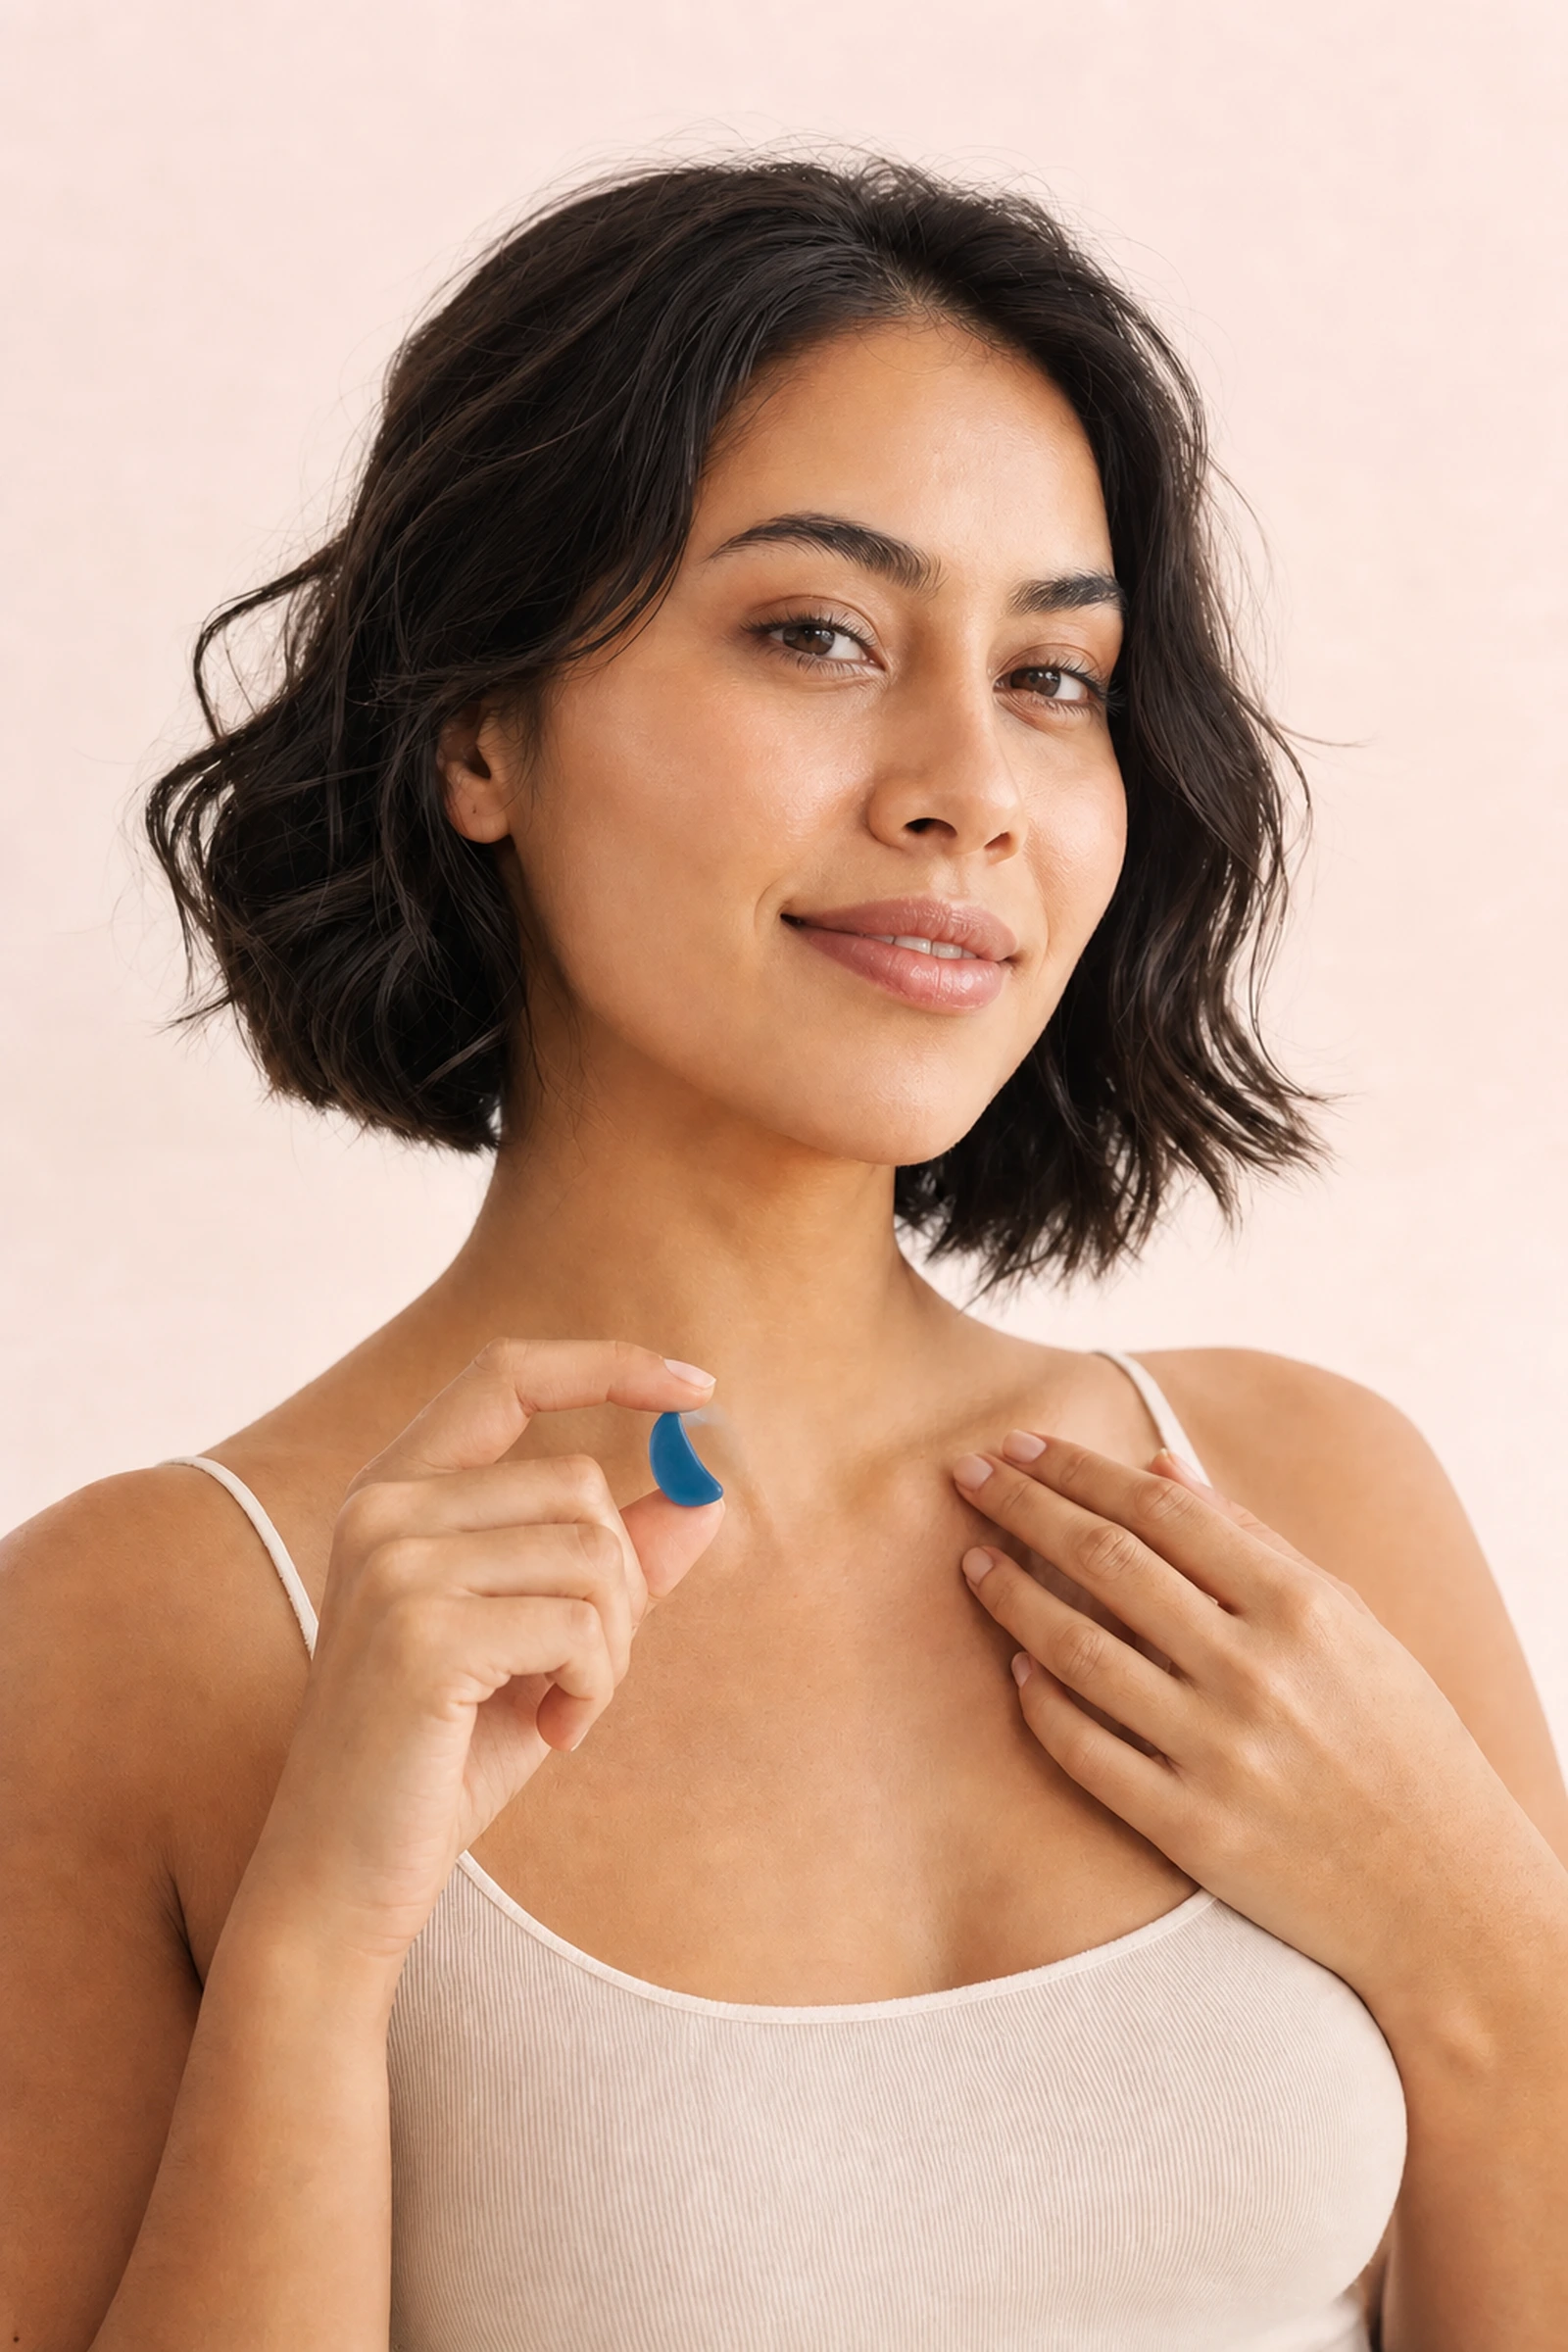
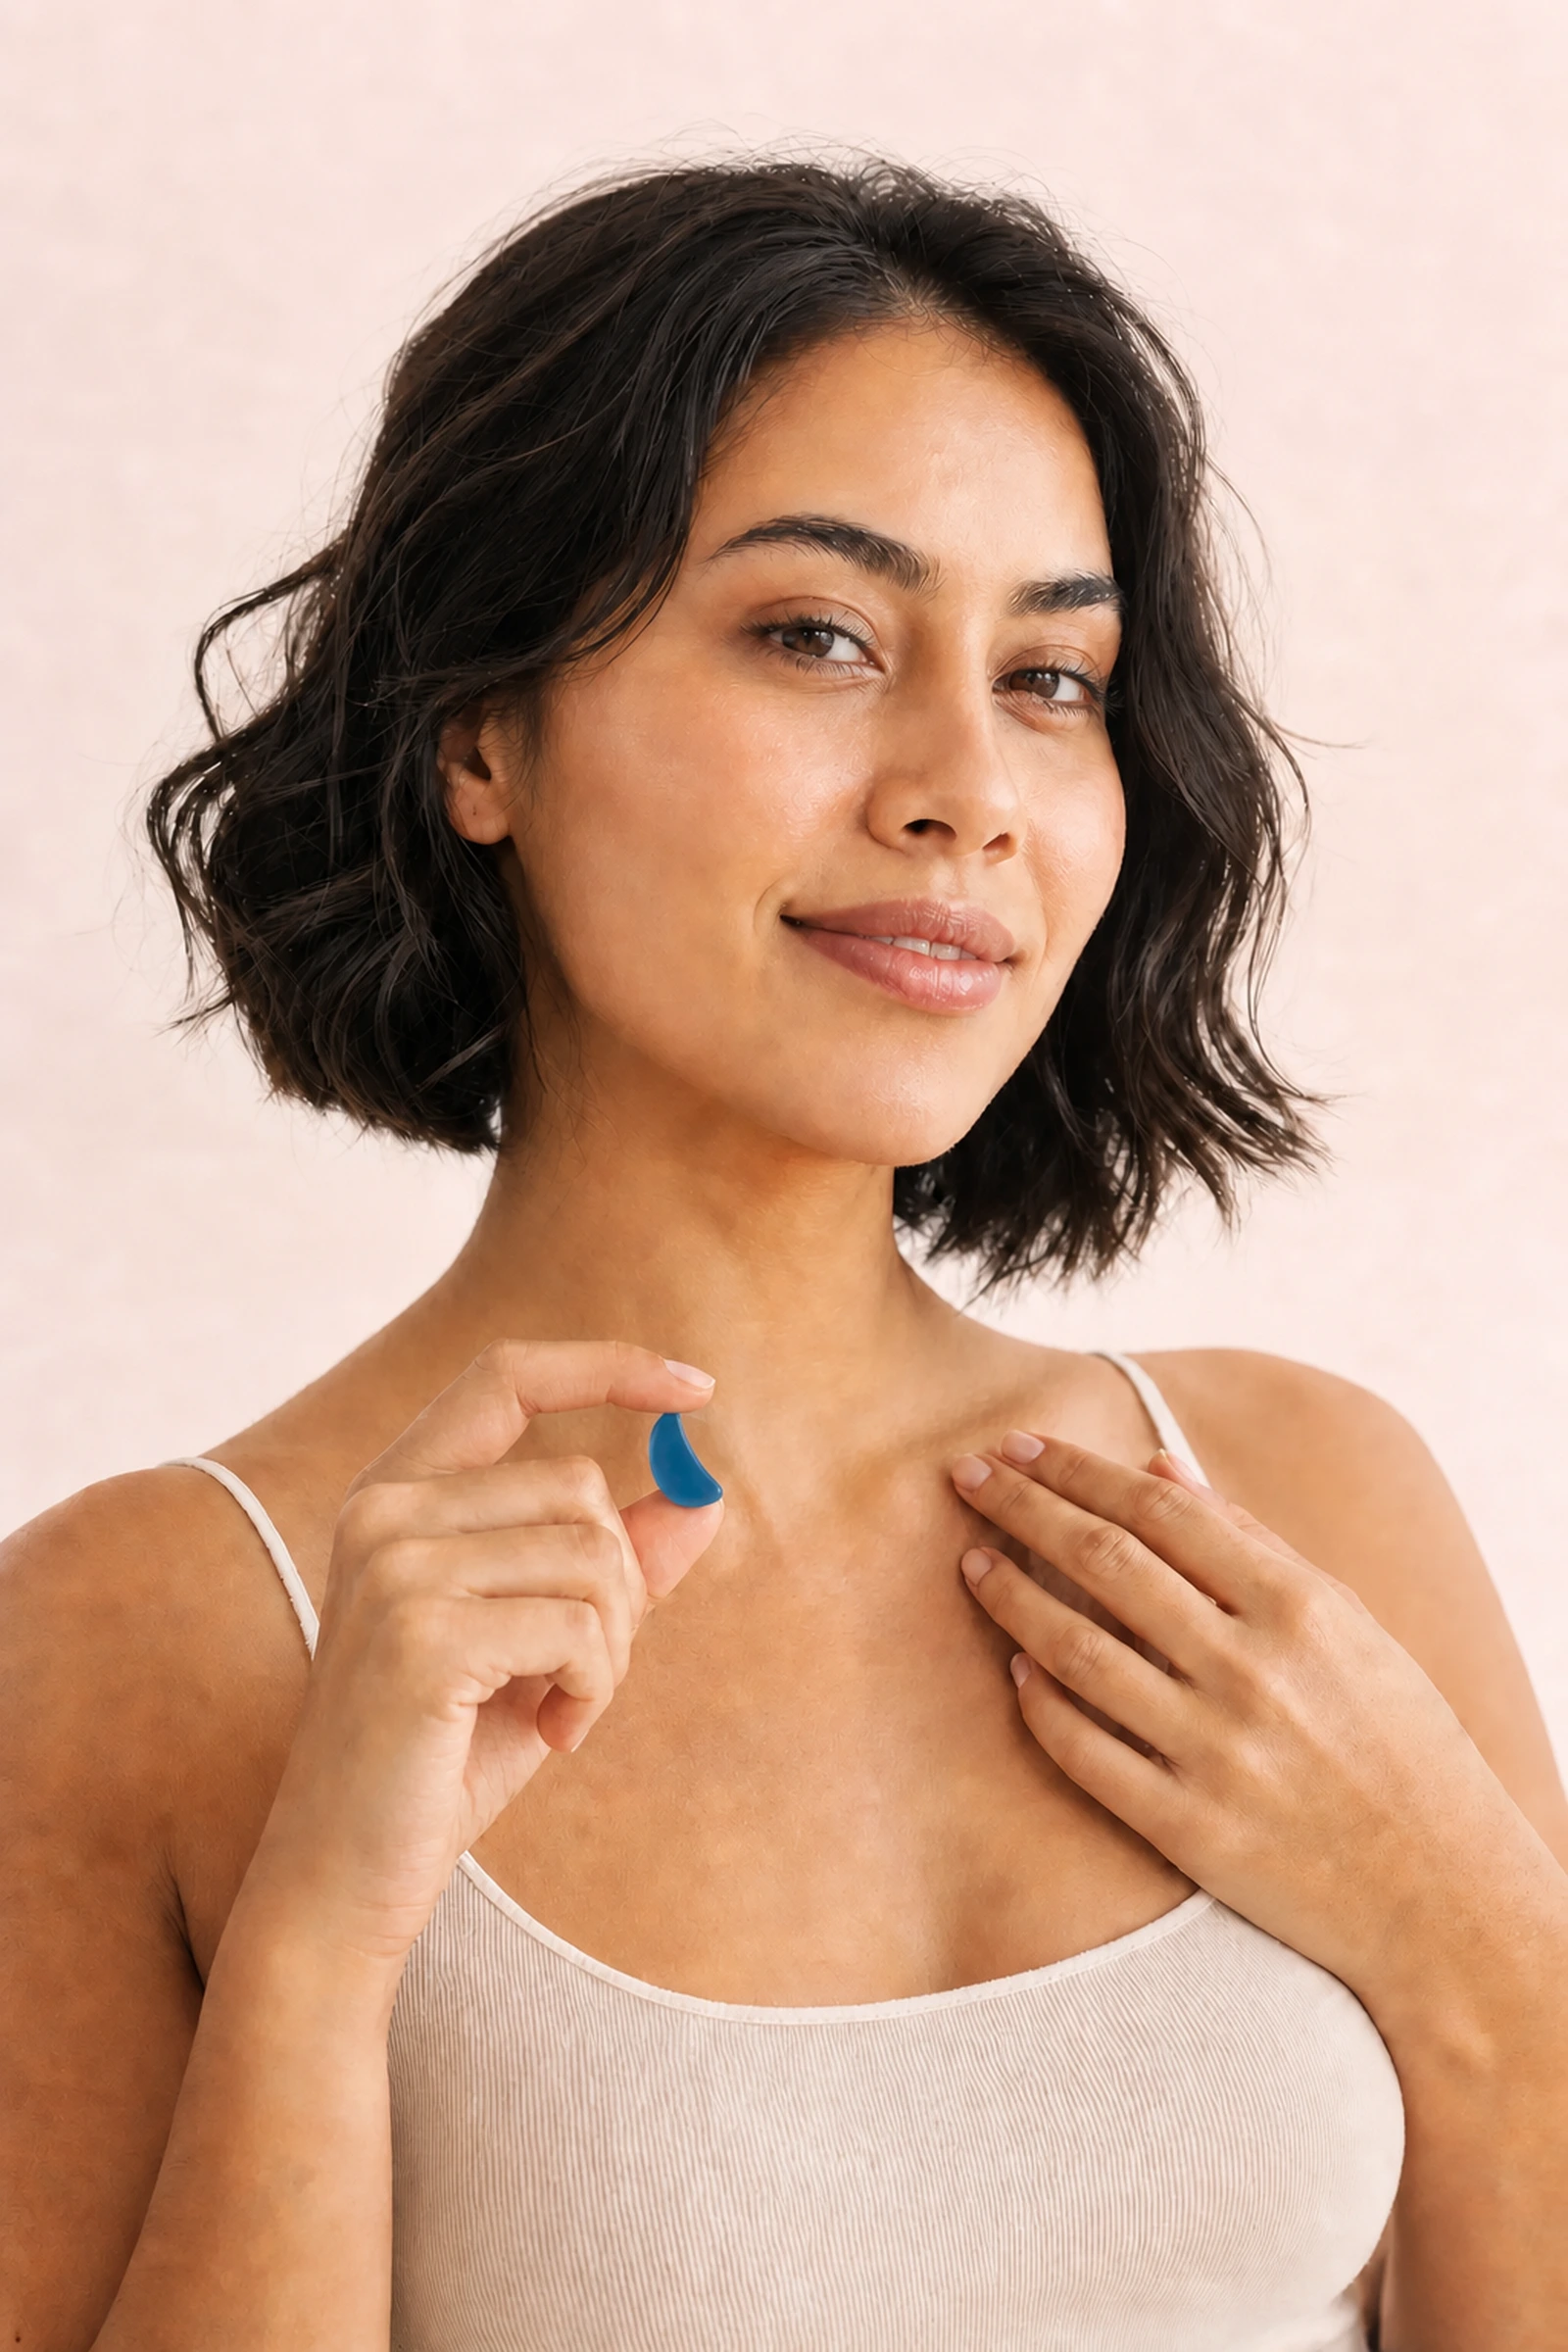
Polish editorial visuals and site navigation

diff --git a/index.html b/index.html
@@ -36,9 +36,9 @@
       <nav class="nav-links" aria-label="Navegación principal">
         <a href="index.html" aria-current="page">Inicio</a>
         <a href="tienda.html">Tienda</a>
-        <a href="index.html#ritual">El ritual</a>
+        <a href="index.html#resenas">Reseñas</a>
         <a href="nosotros.html">Nosotros</a>
-        <a href="index.html#faq">FAQ</a>
+        <a href="index.html#faq">Ayuda</a>
       </nav>
       <div class="nav-actions">
         <a class="icon-btn" href="https://www.instagram.com/chicloveec" target="_blank" rel="noopener noreferrer" aria-label="Instagram de Chic&amp;Love">
@@ -68,9 +68,9 @@
     <nav aria-label="Menú móvil">
       <a href="index.html" aria-current="page">Inicio</a>
       <a href="tienda.html">Tienda</a>
-      <a href="index.html#ritual">El ritual</a>
+      <a href="index.html#resenas">Reseñas</a>
       <a href="nosotros.html">Nosotros</a>
-      <a href="index.html#faq">FAQ</a>
+      <a href="index.html#faq">Ayuda</a>
     </nav>
     <a class="btn btn-primary btn-wide" href="tienda.html">Comprar ahora</a>
   </div>
@@ -113,10 +113,10 @@
     <div class="marquee" aria-hidden="true">
       <div class="marquee-track">
         <div class="marquee-group">
-          <span>Sin gluten</span><span>Sin lactosa</span><span>Activos naturales</span><span>60 gummies</span><span>Envíos a todo Ecuador</span><span>Sabores irresistibles</span>
+          <span>Sin gluten</span><span>Sin lactosa</span><span>Activos naturales</span><span>Fórmulas con propósito</span><span>Envíos a todo Ecuador</span><span>Sabores irresistibles</span>
         </div>
         <div class="marquee-group">
-          <span>Sin gluten</span><span>Sin lactosa</span><span>Activos naturales</span><span>60 gummies</span><span>Envíos a todo Ecuador</span><span>Sabores irresistibles</span>
+          <span>Sin gluten</span><span>Sin lactosa</span><span>Activos naturales</span><span>Fórmulas con propósito</span><span>Envíos a todo Ecuador</span><span>Sabores irresistibles</span>
         </div>
       </div>
     </div>
@@ -201,7 +201,7 @@
     </section>
 
     <!-- ============ TESTIMONIOS ============ -->
-    <section class="section reviews-section">
+    <section class="section reviews-section" id="resenas">
       <div class="wrap">
         <div class="section-head reveal">
           <span class="eyebrow">Reseñas reales</span>
@@ -252,24 +252,48 @@
         </div>
         <div class="faq reveal">
           <details>
-            <summary>¿Cuándo veré resultados?</summary>
-            <div class="faq-body">Los nutrientes actúan de forma acumulativa: la mayoría de clientes nota cambios entre las 4 y 8 semanas de uso constante. La clave es no saltarse el ritual diario (con lo ricas que son, difícil olvidarlo).</div>
+            <summary>¿Cuál es mi fórmula ideal?</summary>
+            <div class="faq-body">Hay una fórmula para cada objetivo: cabello y uñas más fuertes, piel radiante, digestión ligera, sueño reparador, energía íntima o calma. Filtra la colección según lo que quieres potenciar y encuentra el ritual que mejor encaja contigo. Si dudas entre dos, te ayudamos personalmente por WhatsApp.</div>
           </details>
           <details>
-            <summary>¿Hacen envíos a todo Ecuador?</summary>
-            <div class="faq-body">Sí. Enviamos a todo el país en 24–48 horas laborables. El envío es gratis en pedidos desde $50. Puedes pagar contra entrega o por transferencia.</div>
+            <summary>¿Por qué elegir gummies en lugar de cápsulas?</summary>
+            <div class="faq-body">Porque cuidarte también puede ser un momento que esperas con ganas. Las gummies son fáciles de incorporar, tienen sabores irresistibles y convierten los activos de tu fórmula en un ritual diario rico, práctico y sin complicaciones.</div>
+          </details>
+          <details>
+            <summary>¿Cómo incorporo las gummies a mi rutina?</summary>
+            <div class="faq-body">Es muy fácil: cada fórmula indica cuántas gummies tomar y el mejor momento del día para disfrutarlas. Elige una hora que ya forme parte de tu rutina —después del desayuno, al terminar el día o antes de dormir— y deja que ese pequeño momento se convierta en tu dosis diaria de amor propio.</div>
+          </details>
+          <details>
+            <summary>¿Cuándo empezaré a notar los beneficios?</summary>
+            <div class="faq-body">La constancia es tu mejor aliada. Entre 4 y 8 semanas de uso diario es una buena referencia para empezar a apreciar los beneficios de tu fórmula, mientras disfrutas desde el primer día de un ritual sencillo y delicioso.</div>
+          </details>
+          <details>
+            <summary>¿Cuánto dura cada frasco?</summary>
+            <div class="faq-body">Cada frasco contiene 60 gummies. La mayoría de fórmulas ofrece aproximadamente 30 días de ritual tomando 2 al día; la duración de Sleep Vitamins se adapta a la cantidad que elijas dentro de su recomendación.</div>
           </details>
           <details>
             <summary>¿Puedo combinar varias fórmulas?</summary>
-            <div class="faq-body">¡Claro! Las fórmulas están diseñadas para complementarse (por ejemplo, Hair &amp; Nails de día y Sleep de noche). Si tienes una condición médica, tomas medicación, o estás embarazada o lactando, consulta primero con tu médico.</div>
+            <div class="faq-body">Sí, muchas fórmulas pueden convertirse en un ritual complementario: por ejemplo, Hair &amp; Nails durante el día y Sleep Vitamins por la noche. Cuéntanos qué quieres potenciar y te ayudaremos a crear una combinación pensada para ti. Si tomas medicación o tienes una condición especial, confirma tu rutina con tu profesional de salud.</div>
           </details>
           <details>
-            <summary>¿Son aptas para veganos o celíacos?</summary>
-            <div class="faq-body">Todas nuestras gomitas son sin gluten y sin lactosa. Varias fórmulas (ACV, Sleep, Anti-Stress, Sexual Booster) son veganas y Hair &amp; Nails es vegetariana. Revisa las etiquetas de cada producto.</div>
+            <summary>¿Qué hace especiales a las gummies Chic&amp;Love?</summary>
+            <div class="faq-body">Cada fórmula une un objetivo claro, activos seleccionados y un sabor que hace fácil ser constante. Son suplementos pensados para acompañar tu bienestar desde adentro y transformar el cuidado diario en algo que realmente disfrutas.</div>
+          </details>
+          <details>
+            <summary>¿Tienen opciones veganas y sin gluten?</summary>
+            <div class="faq-body">Sí. Todas nuestras gummies son sin gluten y sin lactosa. ACV, Sleep, Anti-Stress y Sexual Booster son veganas, mientras que Hair &amp; Nails es vegetariana. Así puedes elegir la fórmula que mejor encaje con tu estilo de vida.</div>
           </details>
           <details>
             <summary>¿Cómo hago mi pedido?</summary>
-            <div class="faq-body">Añade tus productos al carrito y finaliza por WhatsApp: te atendemos personalmente, confirmamos tu dirección y coordinamos el pago. También puedes escribirnos directo al 098 401 2787 o por Instagram <strong>@chicloveec</strong>.</div>
+            <div class="faq-body">Elige tus fórmulas, añádelas al carrito y finaliza por WhatsApp. Confirmamos contigo el pedido, la dirección y el método de pago; puedes pagar contraentrega o por transferencia. Comprar tu próximo ritual toma solo unos minutos.</div>
+          </details>
+          <details>
+            <summary>¿Hacen envíos a todo Ecuador?</summary>
+            <div class="faq-body">Sí, llevamos tu ritual a todo Ecuador. La entrega suele tomar entre 24 y 48 horas hábiles y el envío es gratis en pedidos desde $50, ideal para armar tu combinación favorita o aprovechar un pack.</div>
+          </details>
+          <details>
+            <summary>¿Recibiré atención personalizada?</summary>
+            <div class="faq-body">Siempre. Estamos contigo para elegir tu fórmula, combinar productos y acompañar tu pedido hasta que llegue a tus manos. Escríbenos al 098 401 2787 o por Instagram en <strong>@chicloveec</strong>: te atenderá una persona real que conoce la colección.</div>
           </details>
         </div>
       </div>

diff --git a/css/styles.css b/css/styles.css
@@ -218,6 +218,7 @@ p, li { text-wrap: pretty; }
   text-align: center;
   text-indent: 0.34em;
   text-transform: uppercase;
+  transform: translateX(-5.4%);
 }
 .brand-lockup-mobile img { height: 26px; }
 .brand-lockup-mobile .brand-country { margin-bottom: 3px; font-size: 6.25px; }
@@ -309,7 +310,7 @@ p, li { text-wrap: pretty; }
   align-items: center;
   gap: 70px;
 }
-.hero h1 { font-size: clamp(46px, 6.15vw, 80px); max-width: 650px; }
+.hero h1 { font-size: clamp(46px, 6.15vw, 80px); max-width: 650px; margin-top: 14px; }
 .hero h1 .accent-word {
   background: linear-gradient(100deg, #8c6fc9, #e88998 45%, #35b34a 80%);
   -webkit-background-clip: text;
@@ -409,11 +410,17 @@ p, li { text-wrap: pretty; }
 }
 .marquee-track {
   display: flex;
-  gap: 48px;
   width: max-content;
   animation: marquee 26s linear infinite;
 }
-.marquee-group { display: flex; align-items: center; gap: 48px; white-space: nowrap; }
+.marquee-group {
+  display: flex;
+  flex: none;
+  align-items: center;
+  gap: 48px;
+  padding-right: 48px;
+  white-space: nowrap;
+}
 @keyframes marquee {
   from { transform: translateX(0); }
   to { transform: translateX(-50%); }
@@ -1085,7 +1092,7 @@ p, li { text-wrap: pretty; }
   text-align: center;
 }
 .about-hero .wrap { position: relative; z-index: 1; }
-.about-hero h1 { font-size: clamp(38px, 6vw, 68px); max-width: 800px; margin-inline: auto; }
+.about-hero h1 { font-size: clamp(38px, 6vw, 68px); max-width: 800px; margin: 14px auto 0; }
 .about-hero p { max-width: 560px; margin: 22px auto 0; color: var(--muted); font-size: 18px; }
 .about-gallery {
   display: grid;
@@ -1199,10 +1206,13 @@ p, li { text-wrap: pretty; }
   .related .products-grid { grid-template-columns: repeat(2, minmax(0, 1fr)); }
 }
 
-@media (max-width: 720px) {
-  .section { padding: 64px 0; }
+@media (max-width: 767px) {
   .nav-links { display: none; }
   .burger { display: grid; }
+}
+
+@media (max-width: 720px) {
+  .section { padding: 64px 0; }
   .steps, .testimonials-grid { grid-template-columns: 1fr; }
   .trust-grid { grid-template-columns: 1fr 1fr; gap: 18px; }
   .section-head-row { display: block; }

diff --git a/nosotros.html b/nosotros.html
@@ -33,9 +33,9 @@
       <nav class="nav-links" aria-label="Navegación principal">
         <a href="index.html">Inicio</a>
         <a href="tienda.html">Tienda</a>
-        <a href="index.html#ritual">El ritual</a>
+        <a href="index.html#resenas">Reseñas</a>
         <a href="nosotros.html" aria-current="page">Nosotros</a>
-        <a href="index.html#faq">FAQ</a>
+        <a href="index.html#faq">Ayuda</a>
       </nav>
       <div class="nav-actions">
         <a class="icon-btn" href="https://www.instagram.com/chicloveec" target="_blank" rel="noopener noreferrer" aria-label="Instagram de Chic&amp;Love">
@@ -65,9 +65,9 @@
     <nav aria-label="Menú móvil">
       <a href="index.html">Inicio</a>
       <a href="tienda.html">Tienda</a>
-      <a href="index.html#ritual">El ritual</a>
+      <a href="index.html#resenas">Reseñas</a>
       <a href="nosotros.html" aria-current="page">Nosotros</a>
-      <a href="index.html#faq">FAQ</a>
+      <a href="index.html#faq">Ayuda</a>
     </nav>
     <a class="btn btn-primary btn-wide" href="tienda.html">Comprar ahora</a>
   </div>
@@ -112,7 +112,7 @@
           </ul>
         </div>
         <div class="split-media reveal reveal-d1">
-          <img class="cover editorial-focus-gummy" src="assets/img/editorial-gummy.webp" alt="Mujer con una trenza sosteniendo una taza con gomitas" width="1600" height="2400" loading="lazy" decoding="async">
+          <img class="cover editorial-focus-gummy" src="assets/img/editorial-gummy.webp" alt="Hombre joven sonriente sosteniendo una taza llena con ositos rojos, medias lunas azules, discos y estrellas de gomita" width="1600" height="2400" loading="lazy" decoding="async">
         </div>
       </div>
     </section>

diff --git a/producto.html b/producto.html
@@ -34,9 +34,9 @@
       <nav class="nav-links" aria-label="Navegación principal">
         <a href="index.html">Inicio</a>
         <a href="tienda.html" aria-current="page">Tienda</a>
-        <a href="index.html#ritual">El ritual</a>
+        <a href="index.html#resenas">Reseñas</a>
         <a href="nosotros.html">Nosotros</a>
-        <a href="index.html#faq">FAQ</a>
+        <a href="index.html#faq">Ayuda</a>
       </nav>
       <div class="nav-actions">
         <a class="icon-btn" href="https://www.instagram.com/chicloveec" target="_blank" rel="noopener noreferrer" aria-label="Instagram de Chic&amp;Love">
@@ -66,9 +66,9 @@
     <nav aria-label="Menú móvil">
       <a href="index.html">Inicio</a>
       <a href="tienda.html" aria-current="page">Tienda</a>
-      <a href="index.html#ritual">El ritual</a>
+      <a href="index.html#resenas">Reseñas</a>
       <a href="nosotros.html">Nosotros</a>
-      <a href="index.html#faq">FAQ</a>
+      <a href="index.html#faq">Ayuda</a>
     </nav>
     <a class="btn btn-primary btn-wide" href="tienda.html">Comprar ahora</a>
   </div>

diff --git a/tienda.html b/tienda.html
@@ -33,9 +33,9 @@
       <nav class="nav-links" aria-label="Navegación principal">
         <a href="index.html">Inicio</a>
         <a href="tienda.html" aria-current="page">Tienda</a>
-        <a href="index.html#ritual">El ritual</a>
+        <a href="index.html#resenas">Reseñas</a>
         <a href="nosotros.html">Nosotros</a>
-        <a href="index.html#faq">FAQ</a>
+        <a href="index.html#faq">Ayuda</a>
       </nav>
       <div class="nav-actions">
         <a class="icon-btn" href="https://www.instagram.com/chicloveec" target="_blank" rel="noopener noreferrer" aria-label="Instagram de Chic&amp;Love">
@@ -65,9 +65,9 @@
     <nav aria-label="Menú móvil">
       <a href="index.html">Inicio</a>
       <a href="tienda.html" aria-current="page">Tienda</a>
-      <a href="index.html#ritual">El ritual</a>
+      <a href="index.html#resenas">Reseñas</a>
       <a href="nosotros.html">Nosotros</a>
-      <a href="index.html#faq">FAQ</a>
+      <a href="index.html#faq">Ayuda</a>
     </nav>
     <a class="btn btn-primary btn-wide" href="tienda.html">Comprar ahora</a>
   </div>

diff --git a/assets/img/AI_PROVENANCE.md b/assets/img/AI_PROVENANCE.md
@@ -6,9 +6,9 @@ Las personas y escenas se generaron el 19 de julio de 2026 con la herramienta in
 | --- | --- |
 | `cover-lifestyle.webp` | Cuatro amistades latinoamericanas compartiendo un bowl con gomitas azules, borgoña, púrpura oscuro, rojas y verdes fieles a los productos. |
 | `editorial-hair.webp` | Mujer afro-latina con cabello rizado sosteniendo una gomita translúcida rojo cereza con forma de oso. |
-| `editorial-hair-bite.webp` | Mujer latina de cabello largo y brillante mordiendo felizmente una gomita translúcida borgoña con forma de oso. |
+| `editorial-hair-bite.webp` | Mujer latina con top lavanda, cabello largo y brillante, mordiendo felizmente una gomita translúcida borgoña con forma de oso. |
 | `editorial-skin.webp` | Mujer latina con cabello corto mostrando una gomita azul con forma de media luna en un retrato de belleza. |
 | `editorial-ritual.webp` | Mujer latina cepillando su cabello largo con un cepillo de madera. |
-| `editorial-gummy.webp` | Mujer indígena/mestiza ecuatoriana sosteniendo una taza con osos naranja, estrellas borgoña, medias lunas azules y piezas púrpura oscuro. |
+| `editorial-gummy.webp` | Hombre joven ecuatoriano/latino con top azul petróleo sosteniendo una taza llena de ositos rojo cereza semiópacos, medias lunas teal oscuro semiópacas, discos borgoña y verdes, y estrellas borgoña oscuro. |
 
 Los archivos finales se exportaron a WebP sin metadatos incrustados. Este registro documenta el origen técnico de las imágenes y evita depender de fotografías de stock o de terceros para los modelos humanos del sitio.